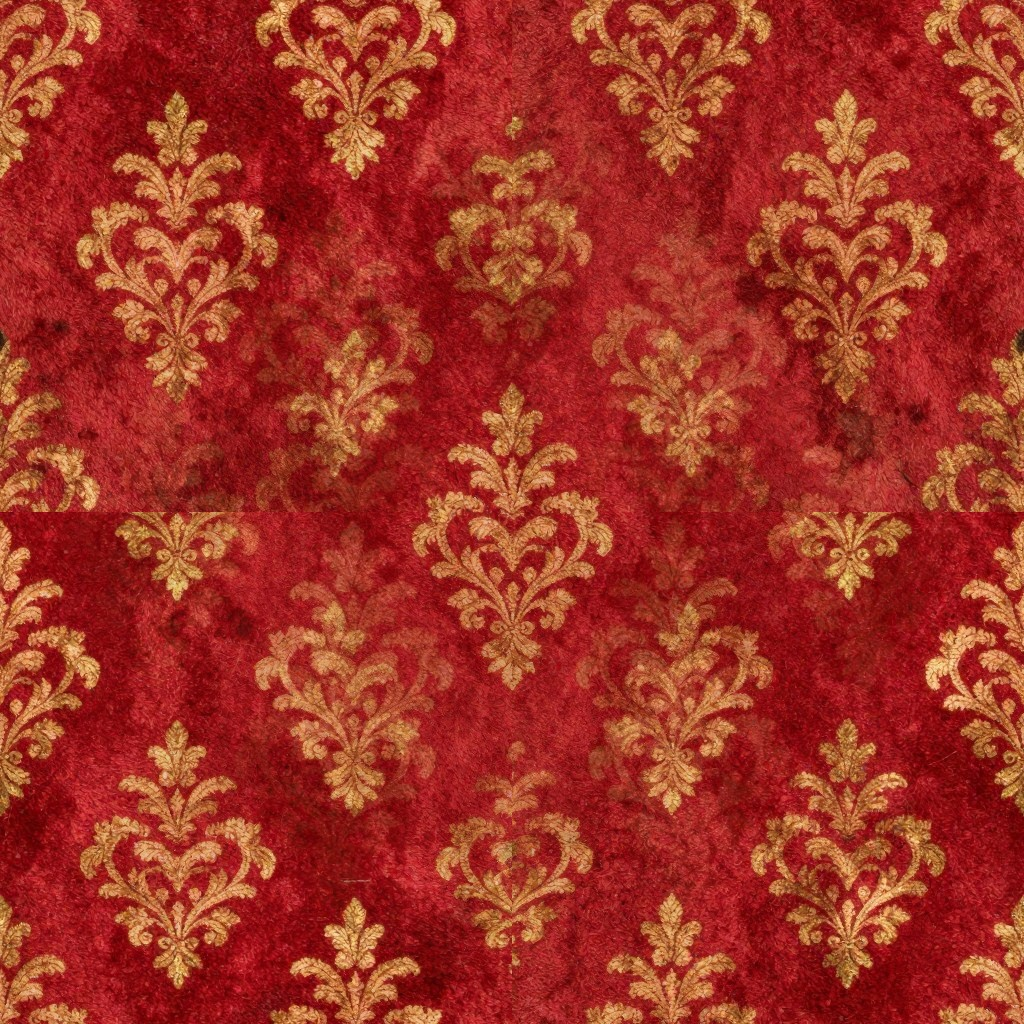
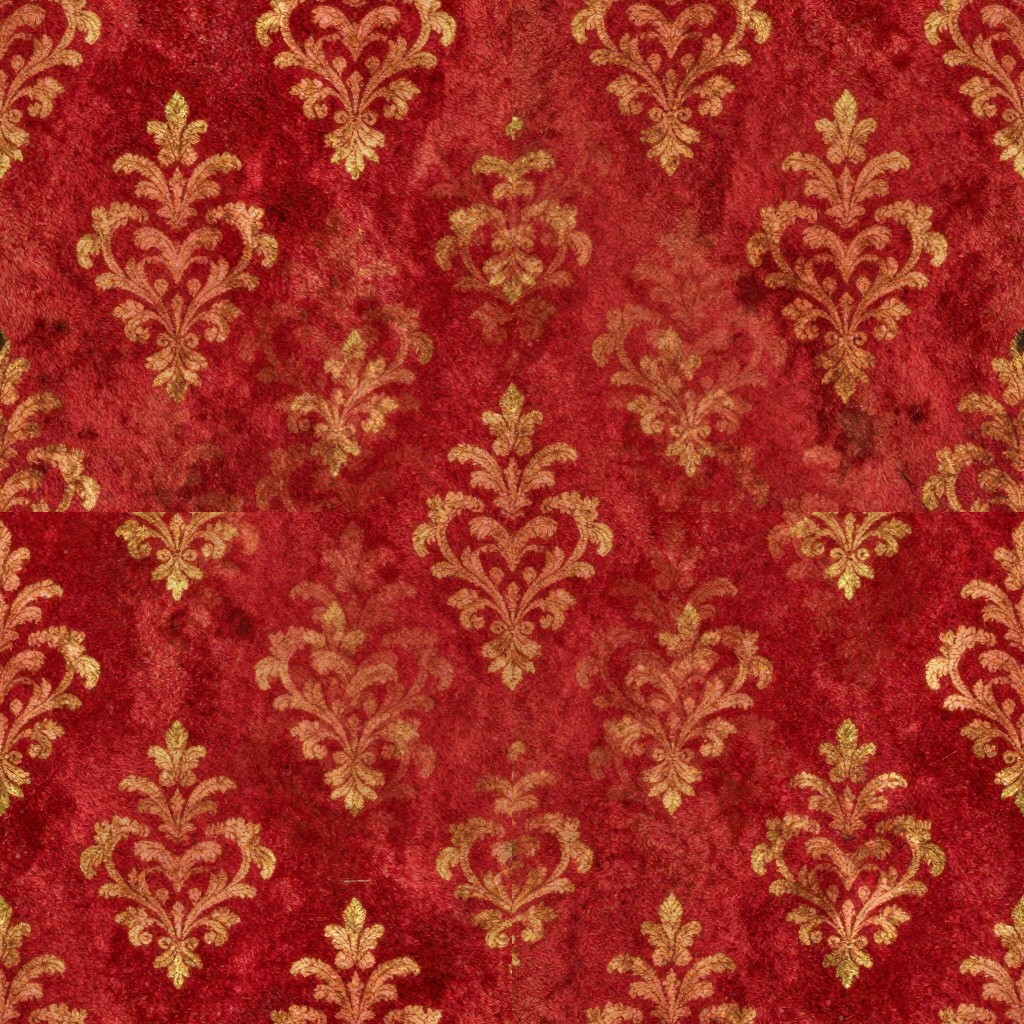
Sharper graphics on big screens: sprites baked at 2x, finer ground detail, flatter ground lighting

diff --git a/js/game.js b/js/game.js
@@ -4,7 +4,7 @@ import { petOf, petLv } from './pets.js';
 import { Music } from './music.js';
 import { SHRINES, CONTRACTS } from './data.js';
 import { EVOLUTIONS, eventActive, DISTRICTS, talentLvl, runOpts, rnd, rint, pick, clamp, districtOf, makeGem, GEMS, ENEMIES, WEAPONS, UPGRADES, RARITIES, heroStats, makeItem, baseBonus } from './data.js';
-import { spr, sprite, flashOf, flipped, glow, SHADOW, GEM, GOLD, KNIFE, AXE, HOLE, CONE, SPLAT, LEAF, FOG, FLARE, gemSprite, PUDDLE, TUFT, PATCH, frames, FRAME_PAD, TEX } from './art.js';
+import { spr, sprite, flashOf, flipped, glow, SHADOW, GEM, GOLD, KNIFE, AXE, HOLE, CONE, SPLAT, LEAF, FOG, FLARE, gemSprite, PUDDLE, TUFT, PATCH, frames, FRAME_PAD, TEX, LW, LH, setRes } from './art.js';
 const isGun = (s) => s === 'bullet' || s === 'flame' || s === 'grenade' || s === 'pumpkin';
 const WEAPON_LEN = { katana: 30, sledge: 30, crossbow: 26, nailgun: 18, chainsaw: 26, flame: 30, grenade: 34, sniper: 44, minigun: 34, knife: 14, machete: 26, axe: 22, bat: 28, crowbar: 26, pistol: 16, revolver: 18, smg: 24, shotgun: 32, rifle: 38 };
 const PROP_H = { prop_tree: 230, prop_car: 130, prop_lamp: 150, prop_tomb3: 100, prop_fence: 70, prop_bush: 60, prop_pumpkin: 40, prop_tomb1: 74, prop_tomb2: 74 };
@@ -64,7 +64,7 @@ export class Run {
   resize() {
     const coarse = matchMedia('(pointer: coarse)').matches, cap = this.q >= 2 ? 0.8 : this.q >= 1 ? 1 : (coarse ? 1.25 : 1.75), dpr = Math.min(devicePixelRatio || 1, cap), W = innerWidth, H = innerHeight;
     this.cv.width = Math.round(W * dpr); this.cv.height = Math.round(H * dpr); this.cv.style.width = W + 'px'; this.cv.style.height = H + 'px';
-    this.dpr = dpr; this.sw = W; this.sh = H; this.scale = Math.min(W, H) / 560; // portrait and landscape both show about 640 px across the short side
+    this.dpr = dpr; this.sw = W; this.sh = H; this.scale = Math.min(W, H) / 560; setRes(this.q < 1 && !coarse ? Math.min(2, Math.max(1, Math.ceil(dpr * this.scale))) : 1); // portrait and landscape both show about 640 px across the short side
     const lk = this.q >= 1 ? 0.25 : 0.33; this.light.width = Math.max(2, Math.round(W * lk)); this.light.height = Math.max(2, Math.round(H * lk)); this.pat = null;
   }
   setQuality(q) { if (q === this.q) return; this.q = q; this.resize(); }
@@ -470,7 +470,7 @@ export class Run {
     const vw = W / S, vh = H / S, x0 = camx - vw / 2 - 60, x1 = camx + vw / 2 + 60, y0 = camy - vh / 2 - 60, y1 = camy + vh / 2 + 60;
     // ground
     const tex = TEX[this.theme.ground] || TEX.tex_ground, gtex = !!(this.theme.ground && TEX[this.theme.ground]);
-    if (tex) { if (!this.pat) { this.pat = x.createPattern(tex, 'repeat'); this.pat.setTransform(new DOMMatrix().scale(0.32)); } x.fillStyle = this.pat; } else x.fillStyle = '#1b2220';
+    if (tex) { if (!this.pat) { this.pat = x.createPattern(tex, 'repeat'); this.pat.setTransform(new DOMMatrix().scale(0.2)); } x.fillStyle = this.pat; } else x.fillStyle = '#1b2220';
     x.fillRect(x0, y0, x1 - x0, y1 - y0);
     if (tex && this.q < 2) { x.globalCompositeOperation = 'lighter'; x.globalAlpha = 0.12; x.fillRect(x0, y0, x1 - x0, y1 - y0); x.globalAlpha = 1; x.globalCompositeOperation = 'source-over'; }
     if (this.theme.tint && !gtex) { x.globalCompositeOperation = 'multiply'; x.fillStyle = this.theme.tint; x.fillRect(x0, y0, x1 - x0, y1 - y0); x.globalCompositeOperation = 'source-over'; }
@@ -482,7 +482,7 @@ export class Run {
       if (this.q < 2) { for (const lf of ci.leaves) x.drawImage(LEAF[lf.v], lf.x, lf.y); for (const tf of ci.tufts) x.drawImage(TUFT[tf.v], tf.x, tf.y); x.globalAlpha = 0.8; for (const pd of ci.puddles) x.drawImage(PUDDLE, pd.x - pd.s / 2, pd.y - pd.s * 0.2, pd.s, pd.s * 0.42); x.globalAlpha = 1; }
     }
     for (const d of this.decals) { const a = Math.min(1, (d.life - d.t) / 2) * 0.75; if (d.x < x0 || d.x > x1 || d.y < y0 || d.y > y1) continue; x.globalAlpha = a; const w = 44 * d.sc; x.drawImage(d.s, d.x - w / 2, d.y - w * 0.3, w, w * 0.6); } x.globalAlpha = 1;
-    for (const c of this.corpses) { if (c.x < x0 || c.x > x1 || c.y < y0 || c.y > y1) continue; const k = c.t / c.life, ease = Math.min(1, k * 4), s0 = c.face < 0 ? flipped(c.s) : c.s; x.save(); x.translate(c.x, c.y); x.rotate(c.dir * 1.45 * ease); x.globalAlpha = k > 0.55 ? 1 - (k - 0.55) / 0.45 : 1; x.drawImage(s0, -s0.width / 2, -s0.height * (1 - 0.35 * ease)); x.restore(); } x.globalAlpha = 1;
+    for (const c of this.corpses) { if (c.x < x0 || c.x > x1 || c.y < y0 || c.y > y1) continue; const k = c.t / c.life, ease = Math.min(1, k * 4), s0 = c.face < 0 ? flipped(c.s) : c.s; x.save(); x.translate(c.x, c.y); x.rotate(c.dir * 1.45 * ease); x.globalAlpha = k > 0.55 ? 1 - (k - 0.55) / 0.45 : 1; x.drawImage(s0, -LW(s0) / 2, -LH(s0) * (1 - 0.35 * ease)); x.restore(); } x.globalAlpha = 1;
     // things standing on the ground, drawn back to front (list is reused every frame)
     const list = this.dl || (this.dl = []); list.length = 0; const C = 520;
     for (let cx = Math.floor(x0 / C) - 1; cx <= Math.floor(x1 / C) + 1; cx++) for (let cy = Math.floor(y0 / C) - 1; cy <= Math.floor(y1 / C) + 1; cy++) for (const p of this.props_at(cx, cy)) if (p.x > x0 - 100 && p.x < x1 + 100 && p.y > y0 - 120 && p.y < y1 + 200) list.push(p);
@@ -492,13 +492,13 @@ export class Run {
     for (const g of this.gems) { const s = g.v >= 5 ? GEM.p : g.v >= 2 ? GEM.b : GEM.g; if (g.x > x0 && g.x < x1 && g.y > y0 && g.y < y1) x.drawImage(s, g.x - 7, g.y - 7); }
     for (const l of this.loot) {
       if (l.x < x0 || l.x > x1 || l.y < y0 || l.y > y1) continue;
-      if (l.kind === 'pumpkin') { const sp = sprite('prop_pumpkin', 1, 26); x.globalCompositeOperation = 'lighter'; x.drawImage(glow('#ff8a20', 64), l.x - 22, l.y - 22, 44, 44); x.globalCompositeOperation = 'source-over'; x.drawImage(sp, l.x - sp.width / 2, l.y - sp.height + 4 - Math.sin(this.t * 4 + l.x) * 2); }
+      if (l.kind === 'pumpkin') { const sp = sprite('prop_pumpkin', 1, 26); x.globalCompositeOperation = 'lighter'; x.drawImage(glow('#ff8a20', 64), l.x - 22, l.y - 22, 44, 44); x.globalCompositeOperation = 'source-over'; x.drawImage(sp, l.x - LW(sp) / 2, l.y - LH(sp) + 4 - Math.sin(this.t * 4 + l.x) * 2); }
       else if (l.kind === 'crate') { x.globalCompositeOperation = 'lighter'; x.drawImage(glow('#ffd24a', 128), l.x - 56, l.y - 56, 112, 112); x.globalAlpha = 0.5; x.fillStyle = '#ffd24a'; x.fillRect(l.x - 3, l.y - 110, 6, 110); x.globalAlpha = 1; x.globalCompositeOperation = 'source-over'; x.fillStyle = '#5a3d1f'; x.fillRect(l.x - 13, l.y - 20, 26, 20); x.strokeStyle = '#c99a3a'; x.lineWidth = 2; x.strokeRect(l.x - 13, l.y - 20, 26, 20); x.fillStyle = '#c99a3a'; x.fillRect(l.x - 13, l.y - 12, 26, 3); }
       else if (l.kind === 'gold') x.drawImage(GOLD, l.x - 6, l.y - 6);
       else if (l.kind === 'gem') { const c = GEMS[l.gem.type].color; x.globalCompositeOperation = 'lighter'; x.drawImage(glow(c, 64), l.x - 24, l.y - 24, 48, 48); x.globalCompositeOperation = 'source-over'; x.drawImage(gemSprite(c), l.x - 9, l.y - 9 - Math.sin(this.t * 4 + l.x) * 2); }
       else { const c = RARITIES[l.item.rar].color; x.globalCompositeOperation = 'lighter'; x.drawImage(glow(c, 96), l.x - 40, l.y - 40, 80, 80); x.fillStyle = c; x.globalAlpha = 0.5; x.fillRect(l.x - 2, l.y - 70, 4, 70); x.globalAlpha = 1; x.globalCompositeOperation = 'source-over'; x.fillStyle = c; x.fillRect(l.x - 7, l.y - 7, 14, 14); x.strokeStyle = '#000'; x.lineWidth = 1; x.strokeRect(l.x - 7, l.y - 7, 14, 14); }
     }
-    if (this.shrine) { const s = this.shrine, sp = sprite('prop_tomb3', 1, 86); x.globalCompositeOperation = 'lighter'; x.drawImage(glow('#b070ff', 128), s.x - 74, s.y - 100, 148, 148); x.globalAlpha = 0.45; x.fillStyle = '#c090ff'; x.fillRect(s.x - 3, s.y - 190, 6, 190); x.globalAlpha = 1; x.globalCompositeOperation = 'source-over'; x.drawImage(sp, s.x - sp.width / 2, s.y - sp.height + 10); }
+    if (this.shrine) { const s = this.shrine, sp = sprite('prop_tomb3', 1, 86); x.globalCompositeOperation = 'lighter'; x.drawImage(glow('#b070ff', 128), s.x - 74, s.y - 100, 148, 148); x.globalAlpha = 0.45; x.fillStyle = '#c090ff'; x.fillRect(s.x - 3, s.y - 190, 6, 190); x.globalAlpha = 1; x.globalCompositeOperation = 'source-over'; x.drawImage(sp, s.x - LW(sp) / 2, s.y - LH(sp) + 10); }
     for (const l of this.loot) if (l.kind === 'crate') this.arrow(x, l.x, l.y, camx, camy, vw, vh, '#ffd24a');
     if (this.shrine) this.arrow(x, this.shrine.x, this.shrine.y, camx, camy, vw, vh, '#c090ff');
     for (const m of this.mineList) { x.fillStyle = '#23282c'; x.beginPath(); x.ellipse(m.x, m.y, 12, 6, 0, 0, TAU); x.fill(); x.strokeStyle = '#6a737a'; x.lineWidth = 1.5; x.stroke(); x.fillStyle = Math.floor(this.t * 3) % 2 ? '#ff3a3a' : '#601818'; x.fillRect(m.x - 2, m.y - 2, 4, 4); }
@@ -512,7 +512,7 @@ export class Run {
     x.globalCompositeOperation = 'lighter';
     for (const b of this.bullets) {
       if (b.shape === 'flame') { const k = 1 - Math.max(0, b.life) / 0.42; x.globalCompositeOperation = 'lighter'; x.globalAlpha = 0.55 * (1 - k * 0.6); x.fillStyle = k < 0.4 ? '#ffd060' : '#ff6a20'; x.beginPath(); x.arc(b.x, b.y, 7 + k * 15, 0, TAU); x.fill(); x.globalAlpha = 1; x.globalCompositeOperation = 'source-over'; }
-      else if (b.shape === 'pumpkin') { const sp = sprite('prop_pumpkin', 1, 24); x.save(); x.translate(b.x, b.y); x.rotate(b.spin); x.drawImage(sp, -sp.width / 2, -sp.height / 2); x.restore(); }
+      else if (b.shape === 'pumpkin') { const sp = sprite('prop_pumpkin', 1, 24); x.save(); x.translate(b.x, b.y); x.rotate(b.spin); x.drawImage(sp, -LW(sp) / 2, -LH(sp) / 2); x.restore(); }
       else if (b.shape === 'grenade') { x.fillStyle = '#2a3238'; x.beginPath(); x.arc(b.x, b.y, 5, 0, TAU); x.fill(); x.fillStyle = '#ff7a30'; x.fillRect(b.x - 1, b.y - 1, 2, 2); }
       else if (b.shape === 'bullet') { x.strokeStyle = b.crit ? '#ffd84a' : '#ffe9a0'; x.lineWidth = 3; x.beginPath(); x.moveTo(b.x, b.y); x.lineTo(b.x - Math.cos(b.a) * 26, b.y - Math.sin(b.a) * 26); x.stroke(); }
       else if (b.shape === 'knife') { const c = Math.cos(b.a), s = Math.sin(b.a); x.setTransform(dpr * S * c, dpr * S * s, -dpr * S * s, dpr * S * c, dpr * (W / 2 - camx * S + ox) + dpr * S * (b.x * 1), dpr * (H / 2 - camy * S + oy) + dpr * S * b.y); x.drawImage(KNIFE, -22, -6); x.setTransform(dpr * S, 0, 0, dpr * S, dpr * (W / 2 - camx * S + ox), dpr * (H / 2 - camy * S + oy)); }
@@ -526,7 +526,7 @@ export class Run {
       else if (f.k === 'bolt') { x.globalAlpha = 1 - f.t / f.life; x.strokeStyle = '#bfe8ff'; x.lineWidth = 3; x.beginPath(); x.moveTo(f.x, f.y); const mx = (f.x + f.x2) / 2 + rnd(-10, 10), my = (f.y + f.y2) / 2 + rnd(-10, 10); x.lineTo(mx, my); x.lineTo(f.x2, f.y2); x.stroke(); }
       else if (f.k === 's') { x.globalAlpha = 1 - f.t / f.life; x.strokeStyle = f.col; x.lineWidth = 2; x.beginPath(); x.moveTo(f.x, f.y); x.lineTo(f.x - f.vx * 0.04, f.y - f.vy * 0.04); x.stroke(); }
       else if (f.k === 'p') { x.globalAlpha = 1 - f.t / f.life; x.fillStyle = f.col; x.fillRect(f.x - f.r, f.y - f.r, f.r * 2, f.r * 2); }
-      else if (f.k === 'gf') { const k = f.t / f.life, s0 = f.face < 0 ? flipped(f.s) : f.s; x.globalAlpha = (1 - k) * 0.7; x.drawImage(s0, f.x - s0.width / 2, f.y - s0.height - k * 40); }
+      else if (f.k === 'gf') { const k = f.t / f.life, s0 = f.face < 0 ? flipped(f.s) : f.s; x.globalAlpha = (1 - k) * 0.7; x.drawImage(s0, f.x - LW(s0) / 2, f.y - LH(s0) - k * 40); }
     }
     x.globalAlpha = 1; x.globalCompositeOperation = 'source-over';
     this.drawDark(x, W, H, S, camx, camy, ox, oy, q);
@@ -558,7 +558,7 @@ export class Run {
   }
   drawCrew(x, c) {
     const job = c.sv.main, key = `cr_${job}_${c.sv.g}`, fr = frames(key, 1, 92, c.moving ? 'walk' : 'idle'), s0 = fr[Math.floor(c.bob * (c.moving ? 0.9 : 0.35)) % fr.length], s = c.face < 0 ? flipped(s0) : s0;
-    x.drawImage(SHADOW, c.x - 18, c.y - 7, 36, 14); x.drawImage(s, c.x - s.width / 2, c.y - s.height + FRAME_PAD(92));
+    x.drawImage(SHADOW, c.x - 18, c.y - 7, 36, 14); x.drawImage(s, c.x - LW(s) / 2, c.y - LH(s) + FRAME_PAD(92));
   }
   drawTurret(x, t) {
     x.drawImage(SHADOW, t.x - 14, t.y - 5, 28, 10); x.fillStyle = '#2a3038'; x.fillRect(t.x - 9, t.y - 16, 18, 14); x.fillStyle = '#9aa7b5'; x.fillRect(t.x - 6, t.y - 20, 12, 5);
@@ -566,21 +566,21 @@ export class Run {
   }
   drawProp(x, p) {
     const s0 = spr(p.t, PROP_H[p.t] || 74), s = p.f < 0 ? flipped(s0) : s0;
-    x.drawImage(SHADOW, p.x - s.width * 0.4, p.y - 8, s.width * 0.8, 16); x.drawImage(s, p.x - s.width / 2, p.y - s.height);
+    x.drawImage(SHADOW, p.x - LW(s) * 0.4, p.y - 8, LW(s) * 0.8, 16); x.drawImage(s, p.x - LW(s) / 2, p.y - LH(s));
   }
   drawEnemy(x, e) {
     const d = e.def, ghost = d.fx === 'ghost' || d.hover, bob = Math.sin(e.age * (ghost ? 3 : 7) + e.ph) * (ghost ? 6 : 2.5), lift = ghost ? 16 : d.fx === 'swoop' ? 26 : 0;
     const kind = ghost ? 'ghost' : d.fx === 'swoop' ? 'flap' : 'walk', fr = frames(d.sprite, e.v, d.size, kind), s0 = fr[Math.floor(e.age * (ghost ? 5 : kind === 'flap' ? 14 : 9 * (d.speed / 70) + 4)) % fr.length], s = e.face < 0 ? flipped(s0) : s0, yy = e.y - lift - (ghost ? bob : 0) + FRAME_PAD(d.size), jx = e.slam > 0 ? rnd(-2, 2) : 0;
     x.drawImage(SHADOW, e.x - d.r * 1.2, e.y - d.r * 0.45, d.r * 2.4, d.r * 0.9);
     if (ghost) x.globalAlpha = 0.88;
-    x.drawImage(s, e.x - s.width / 2 + jx, yy - s.height);
-    if (e.flash > 0) { x.globalAlpha = 0.85; x.drawImage(flashOf(s), e.x - s.width / 2 + jx, yy - s.height); }
+    x.drawImage(s, e.x - LW(s) / 2 + jx, yy - LH(s));
+    if (e.flash > 0) { x.globalAlpha = 0.85; x.drawImage(flashOf(s), e.x - LW(s) / 2 + jx, yy - LH(s)); }
     x.globalAlpha = 1;
     if (d.fx === 'shooter' && this.q < 3) { const hh = this.hero; x.strokeStyle = 'rgba(255,60,60,.9)'; x.lineWidth = 2.4; x.beginPath(); x.ellipse(e.x, yy + 2, d.r + 9 + Math.sin(this.t * 4 + e.ph) * 1.5, (d.r + 8) * 0.4, 0, 0, TAU); x.stroke();
-      if (e.cd < 0.5 && e.cd > 0) { x.globalAlpha = 0.3 + (0.5 - e.cd); x.strokeStyle = '#ff4a4a'; x.lineWidth = 1; x.setLineDash([4, 5]); x.beginPath(); x.moveTo(e.x, yy - s.height * 0.4); x.lineTo(hh.x, hh.y - 30); x.stroke(); x.setLineDash([]); x.globalAlpha = 1; } }
-    if (this.q < 2 && d.glow) { x.globalCompositeOperation = 'lighter'; x.globalAlpha = 0.55 + 0.2 * Math.sin(this.t * 6 + e.ph); x.drawImage(glow(d.glow, 96), e.x - s.height * 0.3, yy - s.height * 0.95, s.height * 0.6, s.height * 0.5); x.globalAlpha = 1; x.globalCompositeOperation = 'source-over'; }
-    if (this.q < 2 && d.eye) { x.globalCompositeOperation = 'lighter'; x.drawImage(glow(d.eye, 32), e.x - 11 + (e.face < 0 ? 2 : -2), yy - s.height * 0.86 - 5, 22, 14); x.globalCompositeOperation = 'source-over'; }
-    if (e.hp < e.maxHp && !d.boss && e.hp > 0) { const w = d.r * 2, by = yy - s.height - 6; x.fillStyle = 'rgba(0,0,0,.6)'; x.fillRect(e.x - w / 2, by, w, 4); x.fillStyle = d.elite ? '#ff9a3a' : '#e04a4a'; x.fillRect(e.x - w / 2, by, w * Math.max(0, e.hp / e.maxHp), 4); }
+      if (e.cd < 0.5 && e.cd > 0) { x.globalAlpha = 0.3 + (0.5 - e.cd); x.strokeStyle = '#ff4a4a'; x.lineWidth = 1; x.setLineDash([4, 5]); x.beginPath(); x.moveTo(e.x, yy - LH(s) * 0.4); x.lineTo(hh.x, hh.y - 30); x.stroke(); x.setLineDash([]); x.globalAlpha = 1; } }
+    if (this.q < 2 && d.glow) { x.globalCompositeOperation = 'lighter'; x.globalAlpha = 0.55 + 0.2 * Math.sin(this.t * 6 + e.ph); x.drawImage(glow(d.glow, 96), e.x - LH(s) * 0.3, yy - LH(s) * 0.95, LH(s) * 0.6, LH(s) * 0.5); x.globalAlpha = 1; x.globalCompositeOperation = 'source-over'; }
+    if (this.q < 2 && d.eye) { x.globalCompositeOperation = 'lighter'; x.drawImage(glow(d.eye, 32), e.x - 11 + (e.face < 0 ? 2 : -2), yy - LH(s) * 0.86 - 5, 22, 14); x.globalCompositeOperation = 'source-over'; }
+    if (e.hp < e.maxHp && !d.boss && e.hp > 0) { const w = d.r * 2, by = yy - LH(s) - 6; x.fillStyle = 'rgba(0,0,0,.6)'; x.fillRect(e.x - w / 2, by, w, 4); x.fillStyle = d.elite ? '#ff9a3a' : '#e04a4a'; x.fillRect(e.x - w / 2, by, w * Math.max(0, e.hp / e.maxHp), 4); }
   }
   arrow(x, tx, ty, camx, camy, vw, vh, col) {
     const hx = vw / 2 - 26, hy = vh / 2 - 26, dx = tx - camx, dy = ty - camy; if (Math.abs(dx) < hx && Math.abs(dy) < hy) return;
@@ -590,14 +590,14 @@ export class Run {
   drawPet(x, p) {
     const d = p.def, s = sprite('pet_' + d.id, 1, d.size), fl = p.face < 0; x.drawImage(SHADOW, p.x - 14, p.y - 4, 28, 9);
     if (d.id === 'wisp') { x.globalCompositeOperation = 'lighter'; x.globalAlpha = 0.6 + 0.2 * Math.sin(p.t * 5); x.drawImage(glow('#6affd0', 96), p.x - 38, p.y - d.size - 4, 76, 76); x.globalAlpha = 1; x.globalCompositeOperation = 'source-over'; }
-    const img = fl ? flipped(s) : s, lift = d.id === 'raven' || d.id === 'wisp' ? 10 : 0; x.drawImage(img, p.x - img.width / 2, p.y - img.height - lift + 4);
+    const img = fl ? flipped(s) : s, lift = d.id === 'raven' || d.id === 'wisp' ? 10 : 0; x.drawImage(img, p.x - LW(img) / 2, p.y - LH(img) - lift + 4);
   }
   drawHero(x) {
     const h = this.hero, moving = h.moving, fr = frames('hero_' + this.S.hero, 1, 100, moving ? 'walk' : 'idle'), s0 = fr[Math.floor(h.bob * (moving ? 0.9 : 0.35)) % fr.length], s = h.face < 0 ? flipped(s0) : s0, bob = 0 + FRAME_PAD(100) * 0;
     x.drawImage(SHADOW, h.x - 20, h.y - 7, 40, 14);
     if (h.inv > 0 && Math.floor(this.t * 20) % 2) x.globalAlpha = 0.5;
-    x.drawImage(s, h.x - s.width / 2, h.y - s.height + FRAME_PAD(100) - bob);
-    if (h.flash > 0) { x.globalAlpha = 0.6; x.drawImage(flashOf(s), h.x - s.width / 2, h.y - s.height + FRAME_PAD(100) - bob); }
+    x.drawImage(s, h.x - LW(s) / 2, h.y - LH(s) + FRAME_PAD(100) - bob);
+    if (h.flash > 0) { x.globalAlpha = 0.6; x.drawImage(flashOf(s), h.x - LW(s) / 2, h.y - LH(s) + FRAME_PAD(100) - bob); }
     x.globalAlpha = 1;
     // the weapon in hand: aims at the target, kicks back when it fires, muzzle flash on guns
     const K = this.hs.weaponKind, Wp = WEAPONS[K], a = h.aim, ca = Math.cos(a), sa = Math.sin(a), hx = h.x + ca * 8 + h.face * 6, hy = h.y - 44 - bob + sa * 5, rc = h.recoil || 0;

diff --git a/js/art.js b/js/art.js
@@ -1,5 +1,11 @@
 // Loads the painted art; anything missing gets a simple stand-in so the game always runs.
 const IMG = {}, SCALED = {}, FLASH = new WeakMap();
+// sharper sprites on big screens: pictures are baked RES times larger and drawn at their logical size (c.lw x c.lh)
+export let RES = 1;
+export const LW = (c) => c.lw || c.width, LH = (c) => c.lh || c.height;
+const _di = CanvasRenderingContext2D.prototype.drawImage;
+CanvasRenderingContext2D.prototype.drawImage = function (im) { if (arguments.length === 3 && im.lw) return _di.call(this, im, arguments[1], arguments[2], im.lw, im.lh); return _di.apply(this, arguments); };
+const mark = (arr) => { for (const c of arr) if (!c.lw) { c.lw = c.width / RES; c.lh = c.height / RES; } return arr; };
 const NAMES = ['icon_crossbow', 'icon_katana', 'icon_chainsaw', 'icon_sledgehammer', 'icon_minigun', 'icon_flamethrower', 'icon_nailgun', 'icon_grenade', 'icon_sniper', 'en_dockhand_1', 'en_dockhand_2', 'en_gull_1', 'en_gull_2', 'en_scorched_1', 'en_scorched_2', 'en_doll_1', 'en_doll_2', 'en_commuter_1', 'en_commuter_2', 'en_rat_1', 'en_rat_2', 'en_plaguevic_1', 'en_plaguevic_2', 'en_bloat_1', 'en_bloat_2', 'en_patient_1', 'en_patient_2', 'en_nurse_1', 'en_nurse_2', 'en_noble_1', 'en_noble_2', 'en_knight_1', 'en_knight_2', 'boss_captain_1', 'boss_captain_2', 'boss_matron_1', 'boss_matron_2', 'boss_conductor_1', 'boss_conductor_2', 'boss_plaguedoc_1', 'boss_plaguedoc_2', 'boss_warden_1', 'boss_warden_2', 'boss_queen_1', 'boss_queen_2', 'en_pumpkinhead_1', 'en_pumpkinhead_2', 'en_scarecrow_1', 'en_scarecrow_2', 'boss_pumpkinking_1', 'boss_pumpkinking_2', 'icon_pumpkincannon', 'pet_hound', 'pet_raven', 'pet_wisp', 'pet_cat', 'hero_priest_1', 'hero_priest_2', 'hero_mech_1', 'hero_mech_2', 'hero_hunter_1', 'hero_hunter_2', 'hero_nurse_1', 'hero_nurse_2', 'hero_f_1', 'hero_f_2', 'hero_m_1', 'hero_m_2', 'en_ghost_1', 'en_ghost_2', 'en_ghoul_1', 'en_ghoul_2', 'en_crow_1', 'en_crow_2', 'en_child_1', 'en_child_2', 'en_brute_1', 'en_brute_2', 'boss_gravekeeper_1', 'boss_gravekeeper_2',
   'prop_tomb1', 'prop_tomb2', 'prop_tomb3', 'prop_tree', 'prop_lamp', 'prop_car', 'prop_fence', 'prop_pumpkin', 'prop_bush',
   'cr_elec_f', 'cr_elec_m', 'cr_plumb_f', 'cr_plumb_m', 'cr_cook_f', 'cr_cook_m', 'cr_mech_f', 'cr_mech_m', 'cr_med_f', 'cr_med_m', 'cr_weap_f', 'cr_weap_m', 'cr_trade_f', 'cr_trade_m', 'cr_scout_f', 'cr_scout_m', 'cr_faith_f', 'cr_faith_m',
@@ -28,15 +34,16 @@ function standIn(name, h) {
 // a copy of the picture scaled to height h (cached), so thousands of draws stay cheap
 export function spr(name, h) {
   h = Math.round(h); const key = name + '@' + h; if (SCALED[key]) return SCALED[key];
-  const src = IMG[name] || IMG[name + '_1'];
+  const src = IMG[name] || IMG[name + '_1'], hh = Math.round(h * RES);
   let c;
-  if (!src) c = standIn(name, h);
-  else { c = document.createElement('canvas'); c.height = h; c.width = Math.max(1, Math.round(src.width * h / src.height)); const x = c.getContext('2d'); x.imageSmoothingQuality = 'high'; x.drawImage(src, 0, 0, c.width, c.height); }
+  if (!src) c = standIn(name, hh);
+  else { c = document.createElement('canvas'); c.height = hh; c.width = Math.max(1, Math.round(src.width * hh / src.height)); const x = c.getContext('2d'); x.imageSmoothingQuality = 'high'; x.drawImage(src, 0, 0, c.width, c.height); }
+  mark([c]);
   return (SCALED[key] = c);
 }
 export function sprite(name, variant, h) { const n = IMG[`${name}_${variant}`] ? `${name}_${variant}` : (IMG[name + '_1'] ? name + '_1' : name); return spr(n, h); }
 // white silhouette for hit flashes
-export function flashOf(c) { let f = FLASH.get(c); if (f) return f; f = document.createElement('canvas'); f.width = c.width; f.height = c.height; const x = f.getContext('2d'); x.drawImage(c, 0, 0); x.globalCompositeOperation = 'source-in'; x.fillStyle = '#fff'; x.fillRect(0, 0, f.width, f.height); FLASH.set(c, f); return f; }
+export function flashOf(c) { let f = FLASH.get(c); if (f) return f; f = document.createElement('canvas'); f.width = c.width; f.height = c.height; f.lw = c.lw; f.lh = c.lh; const x = f.getContext('2d'); x.drawImage(c, 0, 0, c.width, c.height); x.globalCompositeOperation = 'source-in'; x.fillStyle = '#fff'; x.fillRect(0, 0, f.width, f.height); FLASH.set(c, f); return f; }
 export const hasArt = (n) => !!IMG[n] || !!IMG[n + '_1'];
 export const iconUrl = (n) => (IMG['icon_' + n] ? IMG['icon_' + n].src : '');
 
@@ -48,7 +55,7 @@ const GEMSPR = {};
 export function gemSprite(col) { if (GEMSPR[col]) return GEMSPR[col]; const c = mkc(18, 18), x = c.getContext('2d'); x.fillStyle = col; x.strokeStyle = 'rgba(0,0,0,.7)'; x.lineWidth = 1.5; x.beginPath(); x.moveTo(9, 1); x.lineTo(16, 7); x.lineTo(9, 17); x.lineTo(2, 7); x.closePath(); x.fill(); x.stroke(); x.fillStyle = 'rgba(255,255,255,.55)'; x.beginPath(); x.moveTo(9, 2); x.lineTo(13, 7); x.lineTo(9, 7); x.closePath(); x.fill(); return (GEMSPR[col] = c); }
 export const SHADOW = (() => { const c = mkc(64, 24), x = c.getContext('2d'), g = x.createRadialGradient(32, 12, 2, 32, 12, 30); g.addColorStop(0, 'rgba(0,0,0,.55)'); g.addColorStop(1, 'rgba(0,0,0,0)'); x.save(); x.scale(1, 0.4); x.fillStyle = g; x.fillRect(0, 0, 64, 60); x.restore(); return c; })();
 const FLIP = new WeakMap();
-export function flipped(c) { let f = FLIP.get(c); if (f) return f; f = mkc(c.width, c.height); const x = f.getContext('2d'); x.translate(c.width, 0); x.scale(-1, 1); x.drawImage(c, 0, 0); FLIP.set(c, f); return f; }
+export function flipped(c) { let f = FLIP.get(c); if (f) return f; f = mkc(c.width, c.height); f.lw = c.lw; f.lh = c.lh; const x = f.getContext('2d'); x.translate(c.width, 0); x.scale(-1, 1); x.drawImage(c, 0, 0, c.width, c.height); FLIP.set(c, f); return f; }
 const diamond = (col) => { const c = mkc(14, 14), x = c.getContext('2d'); x.fillStyle = col; x.strokeStyle = 'rgba(0,0,0,.6)'; x.beginPath(); x.moveTo(7, 1); x.lineTo(12, 7); x.lineTo(7, 13); x.lineTo(2, 7); x.closePath(); x.fill(); x.stroke(); x.fillStyle = 'rgba(255,255,255,.55)'; x.fillRect(5, 4, 2, 2); return c; };
 export const GEM = { g: diamond('#7dff9a'), b: diamond('#6bd0ff'), p: diamond('#ff6bd6') };
 export const GOLD = (() => { const c = mkc(12, 12), x = c.getContext('2d'); x.fillStyle = '#ffd24a'; x.strokeStyle = '#7a5a00'; x.beginPath(); x.arc(6, 6, 5, 0, 7); x.fill(); x.stroke(); x.fillStyle = '#fff3b0'; x.fillRect(4, 3, 2, 2); return c; })();
@@ -96,13 +103,15 @@ function animFrames(a, h) {
 }
 export function frames(name, variant, h, kind) {
   const real = ANIM[`${name}_${kind === 'walk' && name.startsWith('hero') ? 'run' : kind}`] || ANIM[`${name}_${kind}`], rk = `${name}|real|${h}|${kind}`;
-  if (real) return FR[rk] || (FR[rk] = animFrames(real, h));
+  if (real) return FR[rk] || (FR[rk] = mark(animFrames(real, Math.round(h * RES))));
   const base = sprite(name, variant, h), key = `${name}|${variant}|${h}|${kind}`; if (FR[key]) return FR[key];
   const n = kind === 'walk' ? 8 : kind === 'idle' ? 6 : 8;
-  return (FR[key] = bake(base, kind, n));
+  return (FR[key] = mark(bake(base, kind, n)));
 }
 export const FRAME_PAD = (h) => Math.round(h * 0.06);
 
 export const PUDDLE = (() => { const c = mkc(96, 40), x = c.getContext('2d'); const g = x.createRadialGradient(48, 20, 2, 48, 20, 46); g.addColorStop(0, 'rgba(40,60,90,.75)'); g.addColorStop(0.7, 'rgba(25,38,60,.55)'); g.addColorStop(1, 'rgba(25,38,60,0)'); x.save(); x.scale(1, 0.42); x.fillStyle = g; x.fillRect(0, 0, 96, 96); x.restore(); x.fillStyle = 'rgba(190,210,240,.35)'; x.beginPath(); x.ellipse(40, 16, 14, 2.2, 0, 0, 7); x.fill(); return c; })();
 export const TUFT = [0, 1, 2].map((i) => { const c = mkc(22, 20), x = c.getContext('2d'); x.strokeStyle = ['#2b3a22', '#33432a', '#25301c'][i]; x.lineWidth = 1.6; for (let k = 0; k < 7; k++) { x.beginPath(); x.moveTo(11 + (k - 3) * 1.5, 19); x.quadraticCurveTo(11 + (k - 3) * 3, 9, 11 + (k - 3) * 4.5 + (i - 1) * 3, 2 + (k % 3) * 2); x.stroke(); } return c; });
 export const PATCH = ['#1a2a18', '#2a1a2e', '#101c28'].map((col) => glow(col, 128));
+
+export function setRes(r) { if (r === RES) return; RES = r; for (const k in SCALED) delete SCALED[k]; for (const k in FR) delete FR[k]; }
